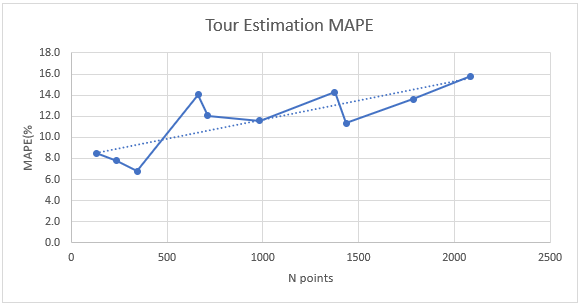
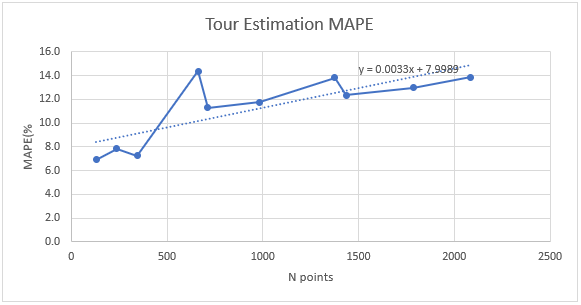
Update TSP Solver
Now the TSP engine runs n times and then average the results.

diff --git a/code/TSP_Solver/src/tsp/test/TestEngine.java b/code/TSP_Solver/src/tsp/test/TestEngine.java
@@ -41,21 +41,22 @@ public class TestEngine {
 	public static void main(String[] args) {
 		System.out.println(">> Start Batch Process - " + sdf.format(new Date()));
 		
-		if (args.length > 1) {
+		if (args.length > 0) {
 			// Batch engine variables
 			String filesFolder = args[0];
 			String algorithm = "SOM";
 			int nTest = 5;
 			
-			if (args.length > 2) {
+			if (args.length > 1) {
 				algorithm = args[1];
 				
-				if (args.length > 3) {
+				if (args.length > 2) {
 					nTest = Integer.parseInt(args[2]);
 				}
 			}
 			
 			// Run Test Engine in Batch mode
+			System.out.println("   Directory: " + filesFolder + ", Algorithm: " + algorithm + ", N Tests: " + nTest);
 			runBatchTest(filesFolder, algorithm, nTest);
 		}
 		
@@ -75,30 +76,40 @@ public class TestEngine {
 			if (new File(tspCase.filePath).exists()) {
 				System.out.println(" - The file will be processed: " + tspCase.name + " by " + algorithm + " algorithm - " + sdf.format(new Date()));
 				DoublePoint[] dp = fm.loadFile(tspCase.filePath);
+				double currTour = 0;
+				int elapsedTime = 0;
 				
-            	if (dp != null) {
+            	if (dp != null && nTest > 0) {
             		
-            		if (algorithm.equals("SOM")) {
-                		tspAlgo = new SOMAlgorithm();
-                	}
-            		
-	            	// Set data and start algorithm
-	            	tspAlgo.init(dp);
-	        		tspAlgo.start();
-	        		
-					try {
-		            	// Waiting for the results
-						tspAlgo.join();
-						
-						// Show and save the results
-						tspCase.currTour = tspAlgo.getTourLength() * fm.getFactorValue();
-						tspCase.elapsedTime = tspAlgo.getElapsedTime();
-						System.out.println("   Algorithm results: Tour length: " + tspCase.currTour + " units, Tour MAE: " + tspCase.getTourMAE(false) + ", Elapsed time: " + tspCase.elapsedTime + " ms");
-					}
-					catch (InterruptedException e) {
-						e.printStackTrace();
-						System.err.println(">> Batch Process Error: " + e.getMessage());
-					}
+            		// Run N times the TSP algorithm and then average the results 
+        			for (int j = 0; j < nTest; j++) {
+        				
+        				// Select the TSP algorithm
+                		if (algorithm.equals("SOM"))
+                    		tspAlgo = new SOMAlgorithm();
+        				
+    	            	// Set data and start algorithm
+    	            	tspAlgo.init(dp);
+    	        		tspAlgo.start();
+    	        		
+    					try {
+    		            	// Waiting for the results
+    						tspAlgo.join();
+    						
+    						// Accumulate results
+    						currTour += tspAlgo.getTourLength() * fm.getFactorValue();
+    						elapsedTime += tspAlgo.getElapsedTime();
+    					}
+    					catch (InterruptedException e) {
+    						e.printStackTrace();
+    						System.err.println(">> Batch Process Error: " + e.getMessage());
+    					}
+        			}
+        			
+        			// Show and save the results
+					tspCase.currTour = currTour / nTest;
+					tspCase.elapsedTime = elapsedTime / nTest;
+					System.out.println("   Algorithm results: Tour length: " + tspCase.currTour + " units, Tour MAE: " + tspCase.getTourMAPE(false) + ", Elapsed time: " + tspCase.elapsedTime + " ms");
             	}
             	else {
             		System.out.println("   The data was not loaded - " + sdf.format(new Date()));
@@ -182,7 +193,7 @@ public class TestEngine {
 	    		sb.append(tspCase.nPoints+ ",");
 	    		sb.append(df.format(tspCase.bestTour) + ",");
 	    		sb.append(df.format(tspCase.currTour) + ",");
-	    		sb.append(df.format(tspCase.getTourMAE(true)) + ",");
+	    		sb.append(df.format(tspCase.getTourMAPE(true)) + ",");
 	    		sb.append(tspCase.elapsedTime + "\n");
 	    	}
 	    	

diff --git a/code/TSP_Solver/src/tsp/util/DoublePoint.java b/code/TSP_Solver/src/tsp/util/DoublePoint.java
@@ -16,9 +16,15 @@ public class DoublePoint
     public double y;
     
     /** Creates a new instance of DoublePoint */
-    public DoublePoint(double x, double y)
-    {
+    public DoublePoint() {
+    	this.x = 0;
+    	this.y = 0;
+    }
+    
+    /** Creates a new instance of DoublePoint */
+    public DoublePoint(double x, double y) {
         this.x = x;
         this.y = y;
     }
+    
 }

diff --git a/code/TSP_Solver/src/tsp/test/TspCase.java b/code/TSP_Solver/src/tsp/test/TspCase.java
@@ -30,8 +30,8 @@ public class TspCase {
 		this.errorTour = 0.0d;
 	}
 	
-	// Return tour MAE (Mean Absolute Error)
-	public double getTourMAE(boolean inPerc)
+	// Return tour MAPE (Mean Absolute Percentage Error)
+	public double getTourMAPE(boolean inPerc)
 	{
 		if (this.bestTour > 0) {
 			this.errorTour = Math.abs(this.bestTour - this.currTour) / this.bestTour;

diff --git a/code/TSP_Solver/src/tsp/util/FileManager.java b/code/TSP_Solver/src/tsp/util/FileManager.java
@@ -169,4 +169,5 @@ public class FileManager
     {
     	return this.factorValue;
     }
+    
 }
